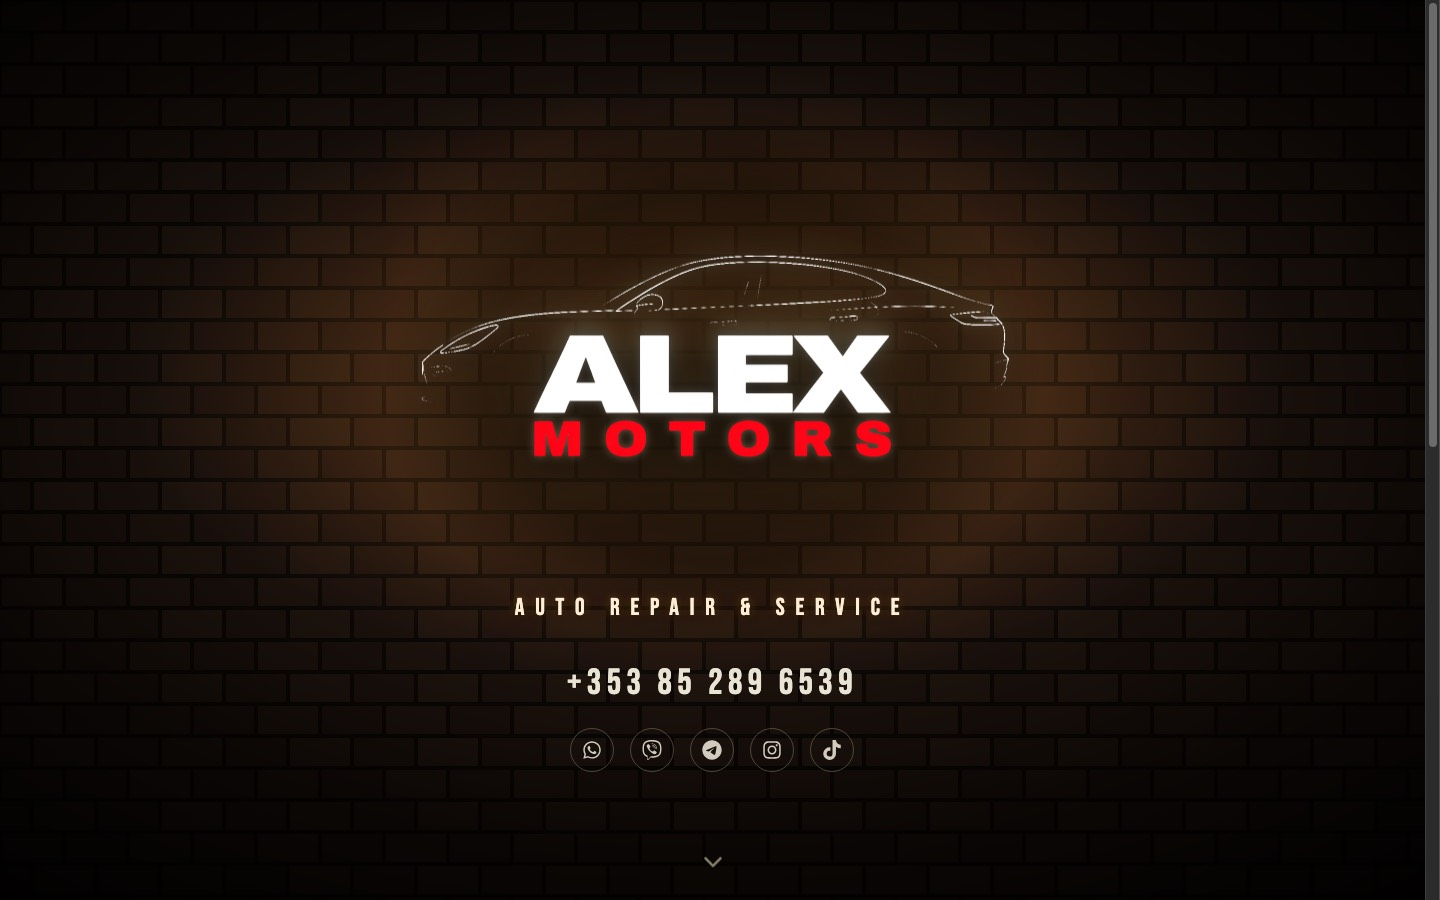
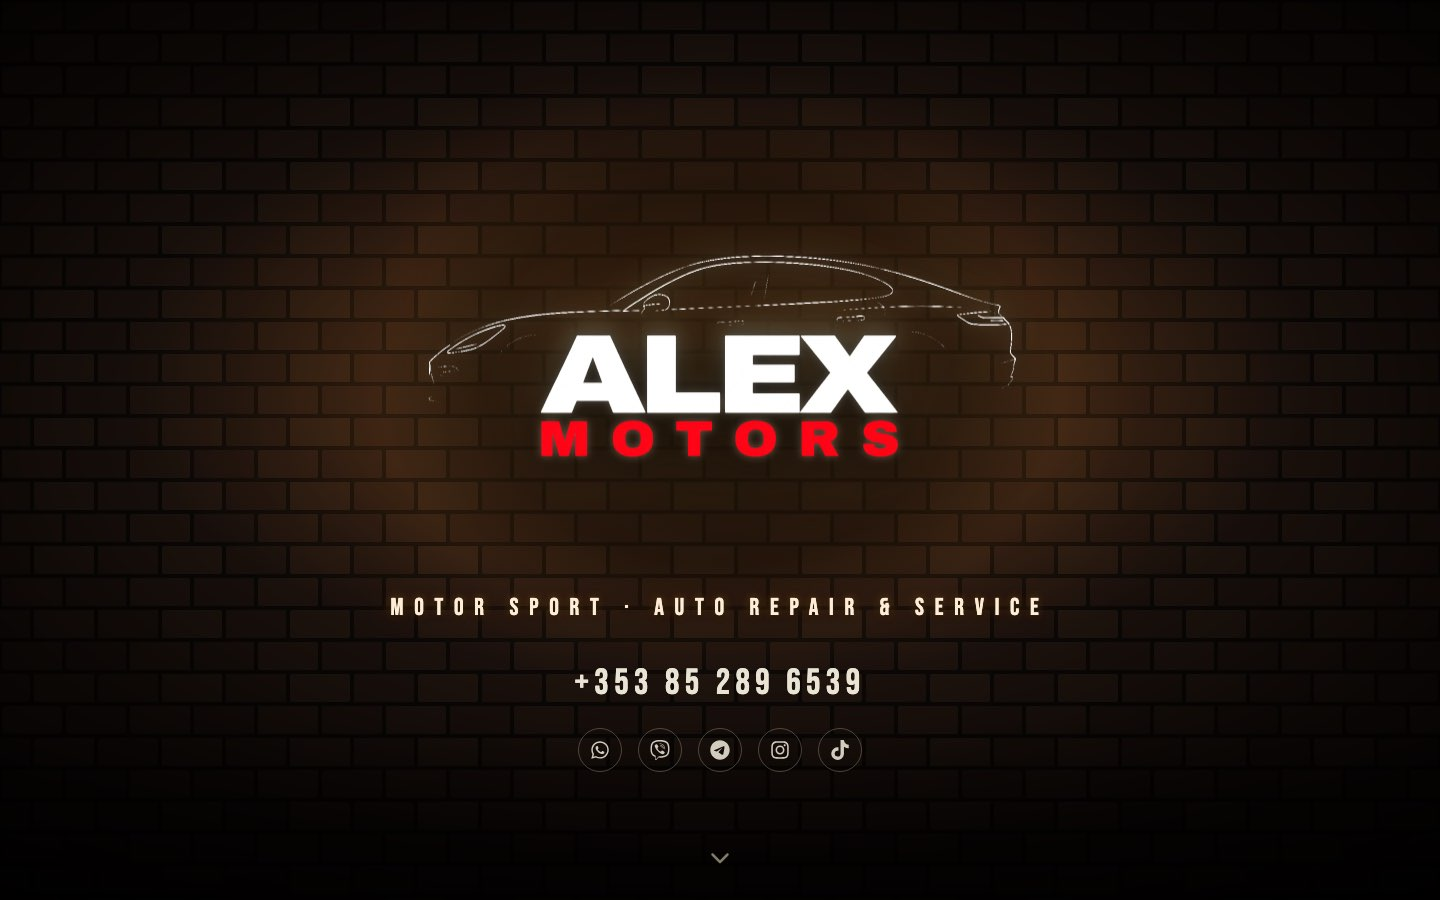
feat: add Motor Sport to the hero tagline

diff --git a/src/App.tsx b/src/App.tsx
@@ -143,8 +143,8 @@ function App() {
               className="sign-mark intro-ignite relative w-[min(88vw,40rem)]"
             />
           </h1>
-          <p className="sign-tagline intro-rise font-display relative mt-8 text-xl tracking-[0.45em] sm:text-2xl">
-            Auto Repair &amp; Service
+          <p className="sign-tagline intro-rise font-display relative mt-8 text-xl tracking-[0.35em] sm:text-2xl sm:tracking-[0.45em]">
+            Motor Sport &middot; Auto Repair &amp; Service
           </p>
         </div>
 